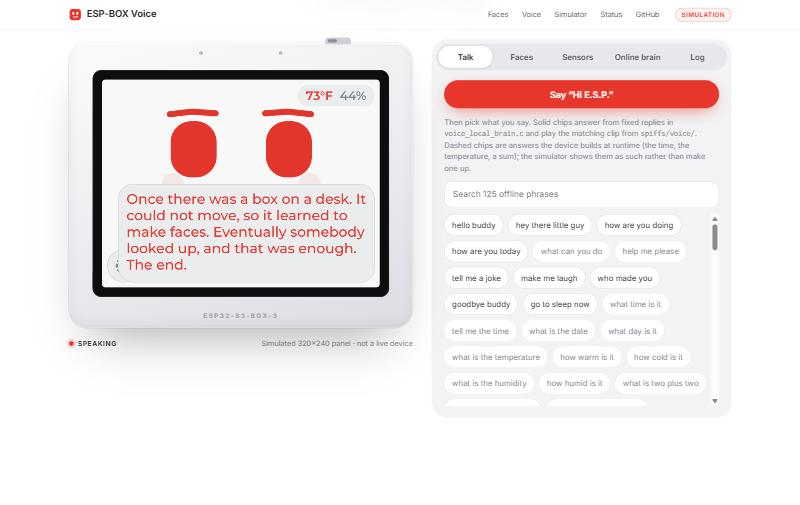
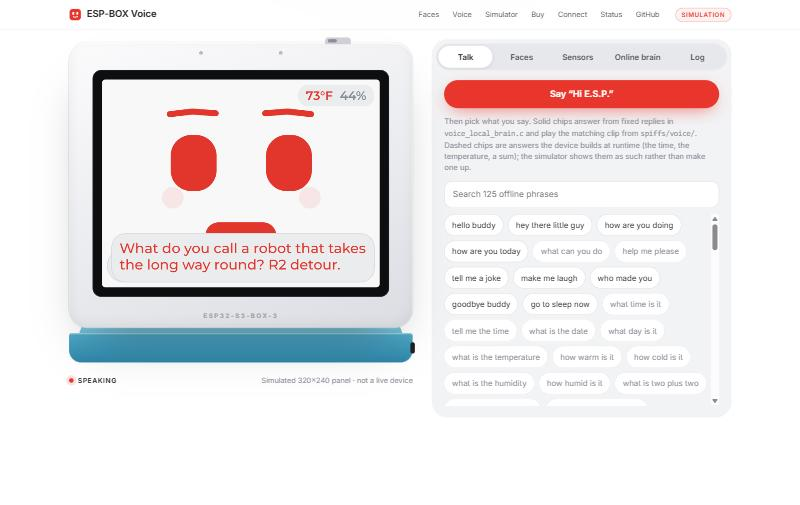
Show the BOX-3 in its teal BOX-3-DOCK everywhere
- Landing hero: 3D BOX-3 tilted back in a teal wedge dock with USB-C on
  the side; the screen keeps replaying real offline replies.
- README banner redrawn with the docked device; face still cycles through
  firmware poses.
- Simulator device sits on a teal dock; kit art uses the dock colour.
- Connect page (and the desktop app built from it) shows the docked device
  via web/connect/device.svg, generated by tools/render_readme_art.py.
- CI freshness check covers the new SVG. Removed an unused stale screenshot.

diff --git a/web/assets/device3d.js b/web/assets/device3d.js
@@ -48,68 +48,84 @@ async function start() {
   scene.environment = pmrem.fromScene(new RoomEnvironment(renderer), 0.04).texture;
 
   const camera = new THREE.PerspectiveCamera(30, 1, 0.1, 100);
-  camera.position.set(0, 0.5, 7.3);
-  camera.lookAt(0, -0.3, 0);
+  camera.position.set(0, 2.1, 7.2);
+  camera.lookAt(0, -0.55, 0);
 
   const RED = new THREE.Color("#E8362D");
-  const shell = new THREE.MeshPhysicalMaterial({ color: "#f4f4f6", roughness: 0.38, clearcoat: 0.6, clearcoatRoughness: 0.25 });
-  const glass = new THREE.MeshPhysicalMaterial({ color: "#0c0d0f", roughness: 0.08, metalness: 0.1, clearcoat: 1 });
-  const dockMat = new THREE.MeshPhysicalMaterial({ color: "#e6e7eb", roughness: 0.55, clearcoat: 0.2 });
+  const shell = new THREE.MeshPhysicalMaterial({ color: "#f5f5f7", roughness: 0.34, clearcoat: 0.7, clearcoatRoughness: 0.22 });
+  const glass = new THREE.MeshPhysicalMaterial({ color: "#0c0d0f", roughness: 0.06, metalness: 0.1, clearcoat: 1 });
+  /* BOX-3-DOCK: the light teal-blue wedge stand the BOX-3 kit ships with. */
+  const dockMat = new THREE.MeshPhysicalMaterial({ color: "#3f9fc2", roughness: 0.55, clearcoat: 0.2, clearcoatRoughness: 0.5, envMapIntensity: 0.35 });
   const grey = new THREE.MeshStandardMaterial({ color: "#a7aab1", roughness: 0.5 });
+  const portMat = new THREE.MeshStandardMaterial({ color: "#1e1f22", roughness: 0.35, metalness: 0.4 });
 
   const device = new THREE.Group();
+  device.position.y = -2.0;           /* dock sits on the floor plane */
   scene.add(device);
 
-  /* Main body: 2.4-inch 4:3 panel in a rounded shell. */
-  const body = new THREE.Mesh(new RoundedBoxGeometry(3.2, 2.7, 1.25, 8, 0.32), shell);
-  body.castShadow = true;
-  device.add(body);
+  /* The dock: a wedge, low at the front and high at the back, so the unit
+     plugged into its top leans back towards the desk. */
+  const DOCK_W = 3.4, FRONT_H = 0.34, BACK_H = 0.86, DEPTH = 1.3;
+  const profile = new THREE.Shape();
+  profile.moveTo(DEPTH / 2, 0);
+  profile.lineTo(-DEPTH / 2, 0);
+  profile.lineTo(-DEPTH / 2, BACK_H);
+  profile.lineTo(DEPTH / 2, FRONT_H);
+  profile.closePath();
+  const dockGeo = new THREE.ExtrudeGeometry(profile, {
+    depth: DOCK_W - 0.24, bevelEnabled: true, bevelThickness: 0.12, bevelSize: 0.1, bevelSegments: 6, curveSegments: 8 });
+  dockGeo.translate(0, 0, -(DOCK_W - 0.24) / 2);
+  const dock = new THREE.Mesh(dockGeo, dockMat);
+  dock.rotation.y = -Math.PI / 2;     /* profile u -> +z (front), extrusion -> x */
+  dock.castShadow = true;
+  dock.receiveShadow = true;
+  device.add(dock);
 
-  const bezel = new THREE.Mesh(new RoundedBoxGeometry(2.86, 2.2, 0.06, 6, 0.16), glass);
-  bezel.position.set(0, 0.08, 0.63);
-  device.add(bezel);
+  /* USB-C on the dock's right-hand side. */
+  const usb = new THREE.Mesh(new RoundedBoxGeometry(0.06, 0.12, 0.34, 3, 0.05), portMat);
+  usb.position.set(DOCK_W / 2 + 0.005, 0.24, 0.1);
+  device.add(usb);
+
+  /* The main unit, tilted back by the dock's slope. */
+  const tilt = Math.atan2(BACK_H - FRONT_H, DEPTH);
+  const unit = new THREE.Group();
+  unit.position.set(0, (FRONT_H + BACK_H) / 2 - 0.02, 0.02);
+  unit.rotation.x = -tilt;
+  device.add(unit);
+
+  const UNIT_H = 2.72, UNIT_D = 0.82;
+  const body = new THREE.Mesh(new RoundedBoxGeometry(3.24, UNIT_H, UNIT_D, 10, 0.34), shell);
+  body.position.y = UNIT_H / 2;
+  body.castShadow = true;
+  unit.add(body);
+
+  const bezel = new THREE.Mesh(new RoundedBoxGeometry(2.9, 2.26, 0.05, 6, 0.18), glass);
+  bezel.position.set(0, UNIT_H / 2 + 0.06, UNIT_D / 2 + 0.005);
+  unit.add(bezel);
 
   const texture = new THREE.CanvasTexture(sim.heroCanvas);
   texture.colorSpace = THREE.SRGBColorSpace;
   texture.anisotropy = 8;
-  const screen = new THREE.Mesh(new THREE.PlaneGeometry(2.56, 1.92),
+  const screen = new THREE.Mesh(new THREE.PlaneGeometry(2.6, 1.95),
     new THREE.MeshBasicMaterial({ map: texture, toneMapped: false }));
-  screen.position.set(0, 0.08, 0.665);
-  device.add(screen);
+  screen.position.set(0, UNIT_H / 2 + 0.06, UNIT_D / 2 + 0.034);
+  unit.add(screen);
 
   /* Two microphone holes above the screen and the mute switch on top. */
   [-0.32, 0.32].forEach((x) => {
     const mic = new THREE.Mesh(new THREE.CylinderGeometry(0.035, 0.035, 0.02, 20), grey);
     mic.rotation.x = Math.PI / 2;
-    mic.position.set(x, 1.23, 0.626);
-    device.add(mic);
+    mic.position.set(x, UNIT_H - 0.12, UNIT_D / 2 + 0.002);
+    unit.add(mic);
   });
   const mute = new THREE.Mesh(new RoundedBoxGeometry(0.42, 0.1, 0.16, 4, 0.04), grey);
-  mute.position.set(0.9, 1.37, 0.1);
-  device.add(mute);
-
-  /* Sensor dock underneath. */
-  const dock = new THREE.Mesh(new RoundedBoxGeometry(3.25, 0.62, 1.55, 8, 0.24), dockMat);
-  dock.position.set(0, -1.68, -0.1);
-  dock.castShadow = true;
-  device.add(dock);
-  const led = new THREE.Mesh(new THREE.CircleGeometry(0.045, 20), new THREE.MeshBasicMaterial({ color: RED }));
-  led.position.set(1.25, -1.68, 0.656);
-  device.add(led);
-
-  const port = new THREE.Mesh(new RoundedBoxGeometry(0.34, 0.12, 0.2, 4, 0.05),
-    new THREE.MeshStandardMaterial({ color: "#2a2b2f", roughness: 0.4 }));
-  port.position.set(0, -1.36, 0.1);
-  device.add(port);
-  const strip = new THREE.Mesh(new RoundedBoxGeometry(2.6, 0.2, 0.02, 4, 0.06), glass);
-  strip.position.set(0, -1.66, 0.66);
-  device.add(strip);
-  led.position.z = 0.68;
+  mute.position.set(0.95, UNIT_H + 0.02, 0);
+  unit.add(mute);
 
   /* Soft contact shadow. */
   const floor = new THREE.Mesh(new THREE.PlaneGeometry(14, 14), new THREE.ShadowMaterial({ opacity: 0.14 }));
   floor.rotation.x = -Math.PI / 2;
-  floor.position.y = -2.0;
+  floor.position.y = -2.13;
   floor.receiveShadow = true;
   scene.add(floor);
 
@@ -159,7 +175,7 @@ async function start() {
     const e = 1 - Math.pow(1 - enter, 4);
     device.rotation.y = (-0.9 + targetY) * (1 - e) + (targetY * 0.6 - 0.16) * e + dragY + (reduce ? 0 : Math.sin(t * 0.5) * 0.05);
     device.rotation.x = targetX * 0.6 + (reduce ? 0 : Math.sin(t * 0.7) * 0.02);
-    device.position.y = (reduce ? 0 : Math.sin(t * 0.9) * 0.06) - (1 - e) * 0.6;
+    device.position.y = -2.0 + (reduce ? 0 : Math.sin(t * 0.9) * 0.04) - (1 - e) * 0.6;
     texture.needsUpdate = true;
     renderer.render(scene, camera);
   }

diff --git a/web/index.html b/web/index.html
@@ -10,7 +10,7 @@
 <link rel="preconnect" href="https://fonts.googleapis.com">
 <link rel="preconnect" href="https://fonts.gstatic.com" crossorigin>
 <link href="https://fonts.googleapis.com/css2?family=Inter:wght@400;450;500;600;650;700&family=JetBrains+Mono:wght@500;600&family=Montserrat:wght@500;600;700&display=swap" rel="stylesheet">
-<link rel="stylesheet" href="assets/style.css?v=4">
+<link rel="stylesheet" href="assets/style.css?v=6">
 <script type="importmap">
 { "imports": {
   "three": "https://cdn.jsdelivr.net/npm/three@0.160.0/build/three.module.js",
@@ -50,7 +50,7 @@
     <div class="hotspots" aria-hidden="true">
       <span class="hs hs-screen"><b>2.4&Prime; 320&times;240 touch</b>LVGL face, drawn from shapes</span>
       <span class="hs hs-mic"><b>Two microphones</b>Wake word on the chip</span>
-      <span class="hs hs-dock"><b>BOX-3-SENSOR dock</b>Temperature, humidity, radar</span>
+      <span class="hs hs-dock"><b>BOX-3-DOCK</b>Tilts it back, USB-C on the side</span>
     </div>
   </div>
   <div class="wrap hero-foot">
@@ -60,7 +60,7 @@
       <a class="btn btn-ghost" href="#simulator">Try the simulator</a>
       <a class="btn btn-ghost" href="https://github.com/Normansrule/esp-box-voice-assistant">View the code</a>
     </div>
-    <p class="stage-note">Illustration of the ESP32-S3-BOX-3 on its sensor dock. The screen is a live browser simulation of the firmware, replaying real offline replies. Drag to turn, click to poke.</p>
+    <p class="stage-note">Illustration of the ESP32-S3-BOX-3 in its BOX-3-DOCK. The screen is a live browser simulation of the firmware, replaying real offline replies. Drag to turn, click to poke.</p>
   </div>
 </header>
 
@@ -116,6 +116,7 @@
           </div>
           <span class="device-logo" aria-hidden="true">ESP32-S3-BOX-3</span>
         </div>
+        <div class="device-dock" aria-hidden="true"><i class="dock-top"></i><i class="dock-face"></i><i class="dock-usb"></i></div>
         <div class="device-caption">
           <span class="state-badge" id="state-badge"><i></i><span id="state-text">Idle</span></span>
           <span>Simulated 320&times;240 panel &middot; not a live device</span>
@@ -243,10 +244,10 @@
   </div>
 </footer>
 
-<script src="assets/firmware-data.js?v=4"></script>
-<script src="assets/face.js?v=4"></script>
-<script src="assets/sim.js?v=4"></script>
-<script src="assets/shop.js?v=4"></script>
-<script type="module" src="assets/device3d.js?v=4"></script>
+<script src="assets/firmware-data.js?v=6"></script>
+<script src="assets/face.js?v=6"></script>
+<script src="assets/sim.js?v=6"></script>
+<script src="assets/shop.js?v=6"></script>
+<script type="module" src="assets/device3d.js?v=6"></script>
 </body>
 </html>

diff --git a/web/assets/style.css b/web/assets/style.css
@@ -186,7 +186,7 @@ section { position: relative; }
 }
 .mute-switch::after { content: ""; position: absolute; top: 3px; left: 5px; width: 16px; height: 6px; border-radius: 3px; background: #8a8f98; transition: left .2s var(--ease), background .2s; }
 .mute-switch[aria-pressed="true"]::after { left: 25px; background: var(--red); }
-.device-caption { display: flex; justify-content: space-between; gap: 12px; margin-top: 18px; font-size: 13px; color: var(--muted); flex-wrap: wrap; }
+.device-caption { display: flex; justify-content: space-between; gap: 12px; margin-top: 22px; font-size: 13px; color: var(--muted); flex-wrap: wrap; }
 .state-badge { display: inline-flex; align-items: center; gap: 8px; font: 650 12px/1 var(--sans); letter-spacing: .08em; text-transform: uppercase; color: var(--text); }
 .state-badge i { width: 8px; height: 8px; border-radius: 50%; background: var(--muted); box-shadow: 0 0 0 4px rgba(138, 143, 152, .18); }
 .state-badge.live i { background: var(--red); box-shadow: 0 0 0 4px rgba(232, 54, 45, .2); animation: pulse 1.2s infinite; }
@@ -339,3 +339,14 @@ footer .wrap { display: flex; gap: 20px; justify-content: space-between; flex-wr
 .steps code { font-size: 12.5px; }
 .disclosure { margin: 34px 0 0; text-align: center; font-size: 13.5px; color: var(--text); }
 .fineprint { margin: 8px auto 0; text-align: center; font-size: 12.5px; color: var(--muted); max-width: 80ch; }
+
+/* ---------------- BOX-3-DOCK (teal wedge) under the simulated device ---------------- */
+.device { z-index: 1; }
+.device-dock { position: relative; max-width: 660px; margin: -26px auto 0; height: 88px; }
+.dock-top { position: absolute; left: 3%; right: 3%; top: 0; height: 36px; background: linear-gradient(#9ad3e3, #6dbbd3);
+  clip-path: polygon(2.5% 0, 97.5% 0, 100% 100%, 0 100%); }
+.dock-face { position: absolute; left: 0; right: 0; top: 36px; height: 52px; border-radius: 4px 4px 22px 22px;
+  background: linear-gradient(#4fa9c9, #2f86a8); box-shadow: inset 0 2px 0 rgba(255, 255, 255, .35), 0 30px 50px -28px rgba(20, 70, 90, .6); }
+.dock-usb { position: absolute; right: -4px; top: 52px; width: 8px; height: 20px; border-radius: 4px; background: #1e1f22; }
+.mini-device.with-dock .mini-base { background: linear-gradient(#5fb2cf, #2f86a8); box-shadow: inset 0 3px 0 #9ad3e3, 0 16px 30px -18px rgba(20, 70, 90, .55); }
+.mini-device:not(.with-dock) .mini-base { background: linear-gradient(#5fb2cf, #3a93b5); }

diff --git a/web/connect/connect.css b/web/connect/connect.css
@@ -63,7 +63,9 @@ code { font: 500 .9em var(--mono); background: var(--surface); padding: 1px 6px;
 .btn-wide { width: 100%; margin-top: 16px; padding: 16px; font-size: 16px; }
 
 /* ---------- Intro ---------- */
-.intro { padding: 40px 0 8px; }
+.intro { padding: 40px 0 8px; display: flow-root; }
+.intro-device { float: right; width: min(300px, 38%); height: auto; margin: -10px 0 8px 24px; }
+@media (max-width: 640px) { .intro-device { float: none; display: block; width: 70%; margin: 0 auto 8px; } }
 .intro h1 { font-size: clamp(30px, 5vw, 48px); line-height: 1.08; letter-spacing: -.02em; margin: 0 0 12px; }
 .intro p { color: var(--muted); max-width: 680px; margin: 0; }
 .steps { margin: 20px 0 0; padding-left: 22px; color: var(--muted); }

diff --git a/web/connect/index.html b/web/connect/index.html
@@ -36,6 +36,7 @@
   </section>
 
   <section class="intro">
+    <img class="intro-device" src="device.svg" width="500" height="480" alt="Illustration of an ESP32-S3-BOX-3 in its teal dock, its screen cycling through Desk Buddy faces">
     <h1>Plug in your box. <span class="red">Flash, watch, talk.</span></h1>
     <p>Everything happens between this page and the USB cable. Nothing is uploaded, and the firmware files never leave your computer once they are downloaded.</p>
     <ol class="steps">

diff --git a/tools/render_readme_art.py b/tools/render_readme_art.py
@@ -168,7 +168,7 @@ def svg(w, h, body, title):
 
 def hero():
     """Banner whose face cross-fades through expressions and blinks (CSS, no JS)."""
-    W, H = 1280, 520
+    W, H = 1280, 600
     seq = ["neutral", "happy", "curious", "wink", "love", "starry", "playful"]
     n = len(seq)
     dur = n * 2.4
@@ -186,20 +186,13 @@ def hero():
         keyframes.append(".f0{opacity:1}")
     style = ("<style>.f{opacity:0}%s@media (prefers-reduced-motion:reduce){.f{animation:none}.f0{opacity:1}}</style>"
              % "".join(keyframes))
-    sx, sy, sc = 760, 92, 1.36
+    sx, sy, sc = 742, 92, 1.3
     sw, sh = 320 * sc, 240 * sc
     body = [style,
             '<rect width="%d" height="%d" fill="#fff"/>' % (W, H),
-            '<ellipse cx="%g" cy="%g" rx="420" ry="260" fill="url(#glow)"/>' % (sx + sw / 2, sy + sh / 2),
-            '<rect x="%g" y="%g" width="%g" height="%g" rx="44" fill="#ECEDF0" stroke="#D8D9DE"/>'
-            % (sx - 34, sy - 40, sw + 68, sh + 86),
-            '<rect x="%g" y="%g" width="%g" height="%g" rx="18" fill="#0d0e10"/>' % (sx - 12, sy - 12, sw + 24, sh + 24),
-            '<circle cx="%g" cy="%g" r="4" fill="#BFC1C7"/><circle cx="%g" cy="%g" r="4" fill="#BFC1C7"/>'
-            % (sx + sw * 0.4, sy - 26, sx + sw * 0.6, sy - 26),
-            '<svg x="%g" y="%g" width="%g" height="%g" viewBox="0 0 320 240"><rect width="320" height="240" fill="#fff"/>%s</svg>'
-            % (sx, sy, sw, sh, "".join(frames)),
-            '<text x="%g" y="%g" text-anchor="middle" font-family="%s" font-size="11" letter-spacing="3" '
-            'font-weight="700" fill="#A0A3AA">ESP32-S3-BOX-3</text>' % (sx + sw / 2, sy + sh + 32, FONT),
+            '<ellipse cx="%g" cy="%g" rx="420" ry="260" fill="url(#glow)"/>' % (sx + sw / 2, sy + sh / 2)]
+    body += docked_device(sx, sy, sc, "".join(frames))
+    body += [
             '<text x="80" y="150" font-family="%s" font-size="17" font-weight="600" fill="%s">'
             'ESP-BOX Voice &#183; Desk Buddy firmware v%s</text>' % (FONT, RED, DATA["firmware"]["version"]),
             '<text x="74" y="290" font-family="%s" font-size="148" font-weight="700" letter-spacing="-6" fill="%s">'
@@ -211,6 +204,71 @@ def hero():
             % (FONT, len(DATA["emotions"])),
             ]
     return svg(W, H, "".join(body), "ESP-BOX Voice: Hi E.S.P.")
+
+
+def docked_device(sx, sy, sc, frames, caption=True):
+    """The BOX-3 seated in its teal BOX-3-DOCK, seen from slightly above."""
+    sw, sh = 320 * sc, 240 * sc
+    ux0, ux1 = sx - 30 * sc / 1.3, sx + sw + 30 * sc / 1.3
+    uy0, uy1 = sy - 40 * sc / 1.3, sy + sh + 52 * sc / 1.3
+    dx0, dx1 = ux0 - 22, ux1 + 22
+    dtop = uy1 - 14
+    dface = dtop + 36
+    dbot = dface + 70
+    out = [
+        '<defs><linearGradient id="shell" x1="0" y1="0" x2="0" y2="1"><stop offset="0" stop-color="#FDFDFE"/>'
+        '<stop offset="1" stop-color="#E4E5E9"/></linearGradient>'
+        '<linearGradient id="dockface" x1="0" y1="0" x2="0" y2="1"><stop offset="0" stop-color="#4FA9C9"/>'
+        '<stop offset="1" stop-color="#2F86A8"/></linearGradient>'
+        '<linearGradient id="docktop" x1="0" y1="0" x2="0" y2="1"><stop offset="0" stop-color="#9AD3E3"/>'
+        '<stop offset="1" stop-color="#6DBBD3"/></linearGradient></defs>',
+        '<ellipse cx="%g" cy="%g" rx="%g" ry="16" fill="#000" opacity=".10" filter="url(#blur)"/>'
+        % ((dx0 + dx1) / 2, dbot + 6, (dx1 - dx0) / 2 + 10),
+        '<path d="M%g %g L%g %g L%g %g L%g %g Z" fill="url(#docktop)"/>'
+        % (dx0 + 16, dtop, dx1 - 16, dtop, dx1, dface, dx0, dface),
+        '<path d="M%g %g L%g %g Q%g %g %g %g L%g %g Q%g %g %g %g Z" fill="url(#dockface)"/>'
+        % (dx0, dface, dx1, dface, dx1 + 2, dbot, dx1 - 22, dbot, dx0 + 22, dbot, dx0 - 2, dbot, dx0, dface),
+        '<rect x="%g" y="%g" width="%g" height="3" rx="1.5" fill="#fff" opacity=".35"/>' % (dx0 + 18, dface + 2, dx1 - dx0 - 36),
+        '<rect x="%g" y="%g" width="9" height="20" rx="4" fill="#1E1F22"/>' % (dx1 - 6, dface + 22),
+        '<rect x="%g" y="%g" width="%g" height="%g" rx="%g" fill="url(#shell)" stroke="#D8D9DE"/>'
+        % (ux0, uy0, ux1 - ux0, uy1 - uy0, 44 * sc / 1.3),
+        '<rect x="%g" y="%g" width="%g" height="%g" rx="18" fill="#0d0e10"/>' % (sx - 12, sy - 12, sw + 24, sh + 24),
+        '<circle cx="%g" cy="%g" r="4" fill="#BFC1C7"/><circle cx="%g" cy="%g" r="4" fill="#BFC1C7"/>'
+        % (sx + sw * 0.4, sy - 26 * sc / 1.3, sx + sw * 0.6, sy - 26 * sc / 1.3),
+        '<rect x="%g" y="%g" width="44" height="9" rx="4" fill="#C9CACF"/>' % (ux1 - 120 * sc / 1.3, uy0 - 6),
+        '<svg x="%g" y="%g" width="%g" height="%g" viewBox="0 0 320 240"><rect width="320" height="240" fill="#fff"/>%s</svg>'
+        % (sx, sy, sw, sh, frames),
+        '<text x="%g" y="%g" text-anchor="middle" font-family="%s" font-size="11" letter-spacing="3" '
+        'font-weight="700" fill="#A0A3AA">ESP32-S3-BOX-3</text>' % (sx + sw / 2, sy + sh + 32 * sc / 1.3, FONT),
+    ]
+    if caption:
+        out.append('<text x="%g" y="%g" text-anchor="middle" font-family="%s" font-size="12" fill="%s">'
+                   'Illustration: BOX-3 in its BOX-3-DOCK, face rendered from the firmware</text>'
+                   % ((dx0 + dx1) / 2, dbot + 40, FONT, MUTED))
+    return out
+
+
+def face_cycle(seq, dur_each=2.4):
+    """Cross-fading face frames (CSS only) plus the style block that drives them."""
+    n = len(seq)
+    dur = n * dur_each
+    frames = "".join('<g class="f f%d">%s</g>' % (i, face_svg(POSES[name])) for i, name in enumerate(seq))
+    kf = []
+    for i in range(n):
+        a, b = i / n * 100, (i + 1) / n * 100
+        kf.append("@keyframes k%d{0%%{opacity:0}%.2f%%{opacity:0}%.2f%%{opacity:1}%.2f%%{opacity:1}"
+                  "%.2f%%{opacity:0}100%%{opacity:0}}.f%d{animation:k%d %gs infinite}"
+                  % (i, max(0, a - 1.5), a + 1.5, b - 1.5, min(100, b + 1.5), i, i, dur))
+    style = ("<style>.f{opacity:0}.f0{opacity:1}%s@media (prefers-reduced-motion:reduce){.f{animation:none}"
+             ".f0{opacity:1}}</style>" % "".join(kf))
+    return style, frames
+
+
+def device_only():
+    """Standalone docked BOX-3 with its face cycling, for the Connect app."""
+    style, frames = face_cycle(["neutral", "happy", "listening", "wink", "curious", "love", "speaking", "starry"])
+    body = [style] + docked_device(60, 70, 1.0, frames, caption=False)
+    return svg(500, 480, "".join(body), "ESP32-S3-BOX-3 in its dock, showing the Desk Buddy face")
 
 
 def expressions():
@@ -333,6 +391,9 @@ def main():
                      ("voice-states.svg", voice_states), ("architecture.svg", architecture)):
         (OUT / name).write_text(fn(), encoding="utf-8", newline="\n")
         print("wrote docs/assets/" + name)
+    # The Connect page (and the desktop app built from it) shows the same device.
+    (ROOT / "web" / "connect" / "device.svg").write_text(device_only(), encoding="utf-8", newline=chr(10))
+    print("wrote web/connect/device.svg")
 
 
 if __name__ == "__main__":
